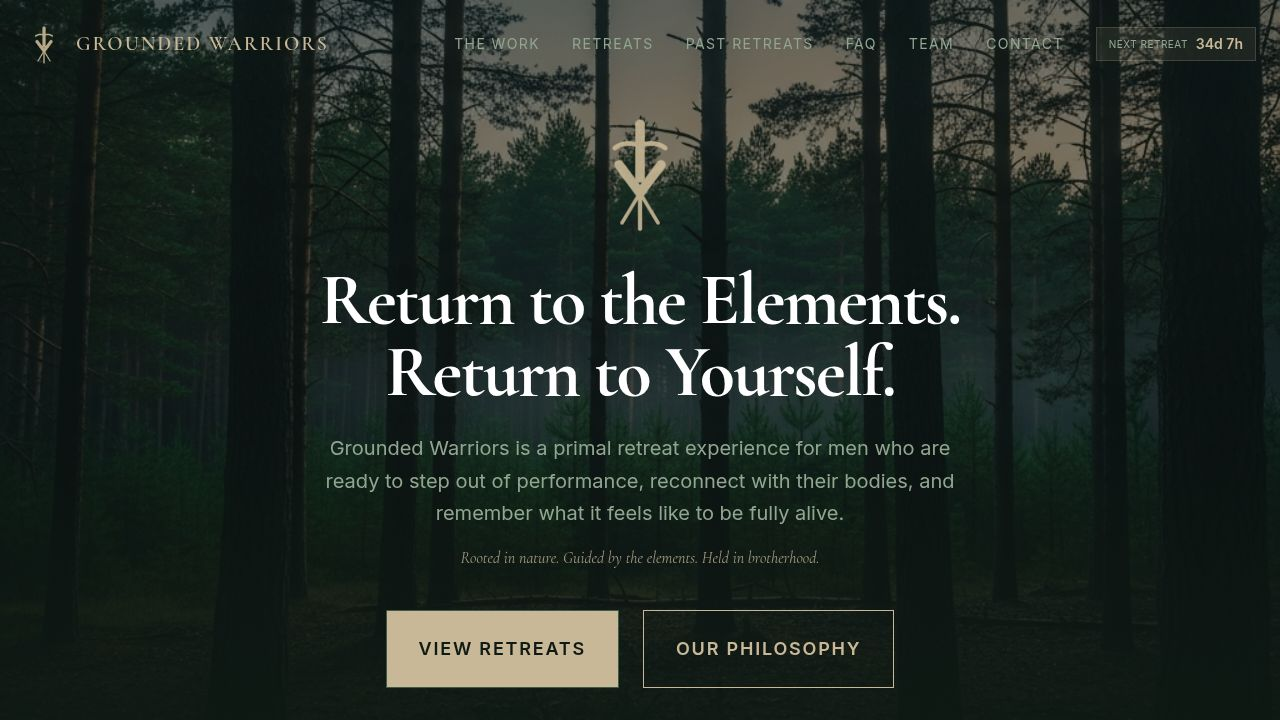
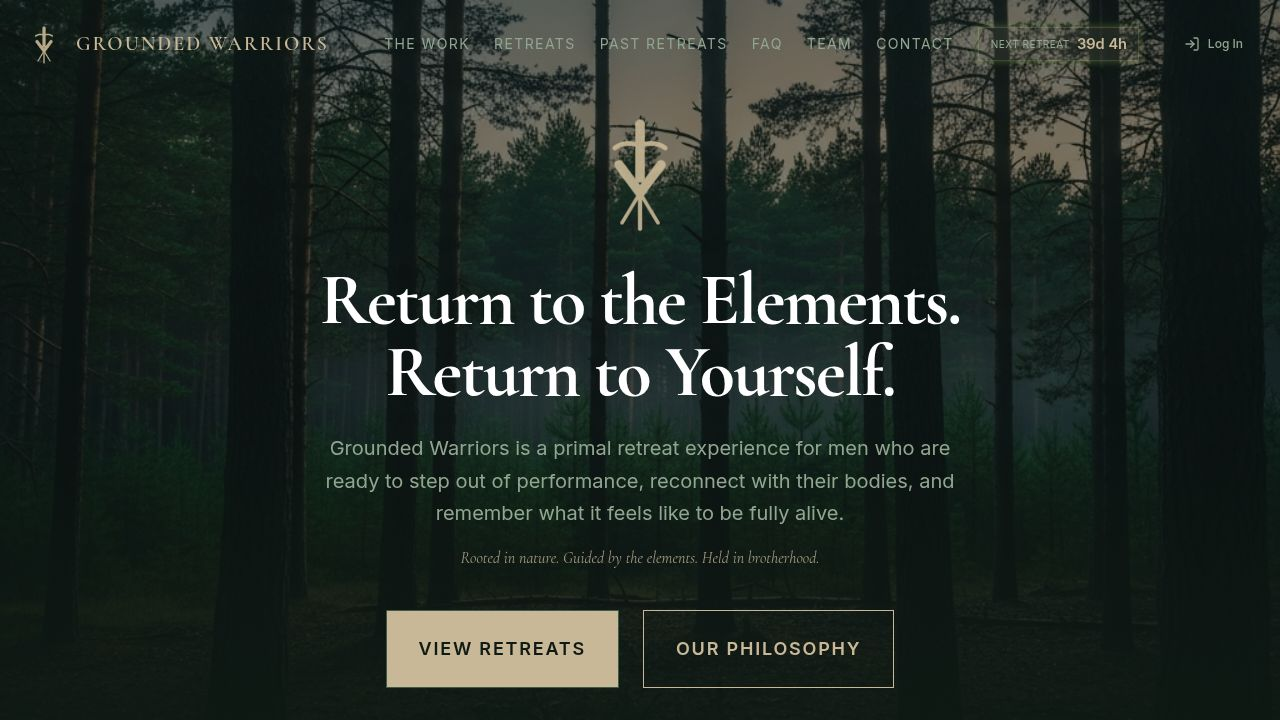
Add subtle animations to the retreat countdown timers
Integrates Framer Motion to add pulsing and scaling animations to the main and mini retreat countdown banners, enhancing visual engagement.

Replit-Commit-Author: Agent
Replit-Commit-Session-Id: 3b11835e-a448-4b43-98cc-5f2e266cdaf2
Replit-Commit-Checkpoint-Type: full_checkpoint
Replit-Commit-Event-Id: 01e31702-a6f3-4276-a849-2f067d05dcf0
Replit-Commit-Screenshot-Url: https://storage.googleapis.com/screenshot-production-us-central1/96d1a123-5730-4971-8300-b20052ef610e/3b11835e-a448-4b43-98cc-5f2e266cdaf2/fXo2sQc
Replit-Helium-Checkpoint-Created: true

Changed region(s): [[0.5938, 0.0306, 0.9688, 0.0917], [0.3125, 0.0306, 0.5, 0.0917], [0.5312, 0.0306, 0.5625, 0.0917]]

diff --git a/client/src/components/countdown.tsx b/client/src/components/countdown.tsx
@@ -1,5 +1,6 @@
-import { useState, useEffect } from "react";
+import { useState, useEffect, useRef } from "react";
 import { Link } from "wouter";
+import { motion, AnimatePresence } from "framer-motion";
 
 interface CountdownProps {
   targetDate: Date;
@@ -36,31 +37,63 @@ export function MiniCountdown({ targetDate, variant = "desktop" }: MiniCountdown
   if (variant === "mobile") {
     return (
       <Link href="/retreats">
-        <div 
+        <motion.div 
           className="flex items-center justify-center gap-3 py-2 bg-primary/10 border-b border-primary/20 hover:bg-primary/20 transition-colors cursor-pointer"
           data-testid="mini-countdown-mobile"
+          animate={{
+            backgroundColor: [
+              "rgba(139, 195, 74, 0.1)",
+              "rgba(139, 195, 74, 0.15)",
+              "rgba(139, 195, 74, 0.1)",
+            ],
+          }}
+          transition={{
+            duration: 3,
+            repeat: Infinity,
+            ease: "easeInOut",
+          }}
         >
           <span className="text-xs text-muted-foreground uppercase tracking-wider">Next Retreat in</span>
-          <span className="text-sm font-semibold text-primary">
+          <motion.span 
+            className="text-sm font-semibold text-primary"
+            animate={{ scale: [1, 1.05, 1] }}
+            transition={{ duration: 2, repeat: Infinity, ease: "easeInOut" }}
+          >
             {timeLeft.days} days, {timeLeft.hours} hours
-          </span>
+          </motion.span>
           <span className="text-xs text-primary">→</span>
-        </div>
+        </motion.div>
       </Link>
     );
   }
 
   return (
     <Link href="/retreats">
-      <div 
+      <motion.div 
         className="flex items-center gap-2 px-3 py-1.5 bg-primary/10 border border-primary/20 hover:bg-primary/20 transition-colors cursor-pointer group"
         data-testid="mini-countdown-desktop"
+        animate={{
+          boxShadow: [
+            "0 0 0px rgba(139, 195, 74, 0)",
+            "0 0 8px rgba(139, 195, 74, 0.4)",
+            "0 0 0px rgba(139, 195, 74, 0)",
+          ],
+        }}
+        transition={{
+          duration: 3,
+          repeat: Infinity,
+          ease: "easeInOut",
+        }}
       >
         <span className="text-[10px] text-muted-foreground uppercase tracking-wider">Next Retreat</span>
-        <span className="text-sm font-semibold text-primary group-hover:text-white transition-colors">
+        <motion.span 
+          className="text-sm font-semibold text-primary group-hover:text-white transition-colors"
+          animate={{ scale: [1, 1.05, 1] }}
+          transition={{ duration: 2, repeat: Infinity, ease: "easeInOut" }}
+        >
           {timeLeft.days}d {timeLeft.hours}h
-        </span>
-      </div>
+        </motion.span>
+      </motion.div>
     </Link>
   );
 }
@@ -100,9 +133,36 @@ export function Countdown({ targetDate }: CountdownProps) {
         { value: timeLeft.seconds, label: "Sec", id: "seconds" },
       ].map((item) => (
         <div key={item.id} className="text-center">
-          <div className="bg-card border border-primary/20 w-20 h-20 md:w-28 md:h-28 flex items-center justify-center">
-            <span className="font-serif text-3xl md:text-5xl text-white" data-testid={`text-countdown-${item.id}`}>{String(item.value).padStart(2, '0')}</span>
-          </div>
+          <motion.div 
+            className="bg-card border border-primary/20 w-20 h-20 md:w-28 md:h-28 flex items-center justify-center relative overflow-hidden"
+            animate={{
+              boxShadow: [
+                "0 0 0px rgba(139, 195, 74, 0)",
+                "0 0 15px rgba(139, 195, 74, 0.3)",
+                "0 0 0px rgba(139, 195, 74, 0)",
+              ],
+            }}
+            transition={{
+              duration: 2,
+              repeat: Infinity,
+              ease: "easeInOut",
+            }}
+          >
+            <AnimatePresence mode="popLayout">
+              <motion.span
+                key={item.value}
+                className="font-serif text-3xl md:text-5xl text-white"
+                data-testid={`text-countdown-${item.id}`}
+                initial={{ rotateX: -90, opacity: 0 }}
+                animate={{ rotateX: 0, opacity: 1 }}
+                exit={{ rotateX: 90, opacity: 0 }}
+                transition={{ duration: 0.3, ease: "easeOut" }}
+                style={{ transformStyle: "preserve-3d" }}
+              >
+                {String(item.value).padStart(2, '0')}
+              </motion.span>
+            </AnimatePresence>
+          </motion.div>
           <span className="text-xs md:text-sm text-muted-foreground uppercase tracking-widest mt-3 block">{item.label}</span>
         </div>
       ))}
